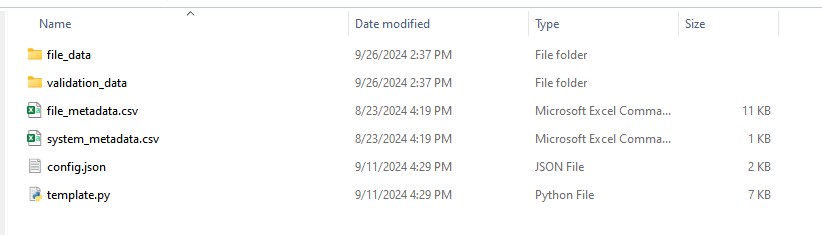
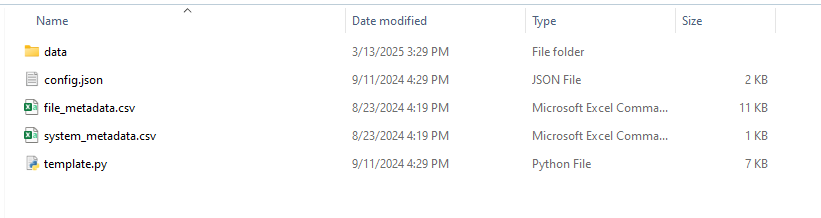
updated the config file in the documentation to include s3_bucket_folder_name, regenerated example img of file structure

diff --git a/ec2/README.md b/ec2/README.md
@@ -29,6 +29,10 @@ A new analysis task for insertion into the PV Validation Hub needs to contain ce
 - Data files - folder containing all csv files the analysis
 - Reference files - folder containing all results for each data file
 
+Below is an screenshot of an example folder containing all of the files/subfolders for an analysis insertion.
+
+![alt text](file-structure-example.png)
+
 ### config.json
 
 Example JSON:
@@ -36,6 +40,7 @@ Example JSON:
 ```json
 {
   "category_name": "Time Shift Detection",
+  "s3_bucket_folder_name": "time-shift-detection",
   "function_name": "detect_time_shifts",
   "comparison_type": "time_series",
   "display_metrics": {
@@ -64,6 +69,7 @@ Example JSON:
     "time_series"
   ],
   "public_results_table": "time-shift-public-metrics.json",
+  "private_results_table": "time-shift-private-metrics.json",
   "private_results_columns": [
     "system_id",
     "file_name",
@@ -79,37 +85,67 @@ Example JSON:
 #### Properties
 
 - "category_name" - name of analysis which will be used on frontend
+- "s3_bucket_folder_name" - name of the folder for the analysis in the S3 bucket
 - "function_name" - name of function required within submission file
 - "comparison_type" - type of comparison
 - "display_metrics" - mapping of final metric name to the display name for the leaderboard
-  - The formatting is as follows `<metric_operation>_<performance_metric>_<references_type>`
+  - The formatting is as follows `<metric_operation>_<performance_metric>_<ground_truth_type>`
   - e.g. `median_mean_absolute_error_time_series`
 - "performance_metrics" - list of metrics to calculate for analysis task
 - "metrics_operations" - contains a mapping of aggregate metric to the operation list to be performed on each metric
-  - The formatting is as follows `<performance_metric>_<references_type>`
+  - The formatting is as follows `<performance_metric>_<ground_truth_type>`
   - e.g. `mean_absolute_error_time_series`
 - "allowable_kwargs" - kwargs for the submission function that are allowed
-- "references_compare" - results from submission function
+- "ground_truth_compare" - results from submission function
 - "public_results_table" - name of json result file that contains information about submission results
 - "private_results_columns" - name of columns that will be in final dataframe that is passed to marimo template
   - will need to contain final metric name to be used in marimo template
-  - The formatting is as follows `<metric_operation>_<performance_metric>_<references_type>`
+  - The formatting is as follows `<metric_operation>_<performance_metric>_<ground_truth_type>`
 
 ### system_metadata.csv
 
 Required columns:
 
 ```csv
-system_id,name,azimuth,tilt,elevation,latitude,longitude,tracking,climate_type,dc_capacity
+system_id,name,latitude,longitude
 ```
+
+Optional columns:
+
+```csv
+azimuth,tilt,elevation,tracking,dc_capacity
+```
+
+Ideally we want to include as many optional columns as we can, although for some data sets this may not be possible as the data is unavailable.
+
 
 ### file_metadata.csv
 
 Required columns:
 
 ```csv
-file_id,system_id,file_name,timezone,data_sampling_frequency,issue
+file_id,system_id,file_name,include_on_leaderboard
 ```
+
+Optional columns:
+
+```csv
+timezone,data_sampling_frequency,issue,data_type
+```
+
+Optional columns may vary based on the type of problem being solved, and is subject to change as needed.
+
+### ./data/files/ folder
+
+This folder contains all of the individual files that we are going to feed into the runner to assess the associated algorithm. File names in this folder link directly to the file_name column in the `file_metadata.csv` file. Columns in these files can vary based on the type of inputs being assessed. A screenshot of an example file for the time shift problem is shown below.
+
+![alt text](input-file-data.png)
+
+### ./data/references/ folder
+
+This folder contains all of the files that contains the reference data, to be assessed against the runner outputs. Files in this folder have the same naming conventions as the files in the ./data/files/ folder, so these files can be successfully linked to their input data file counterparts. Data in these files will vary based on what target variable is being assessed. A screenshot of an example output file for the time shift problem is shown below.
+
+![alt text](output-file-data.png)
 
 ### template.py (Marimo template with cli args input)
 
